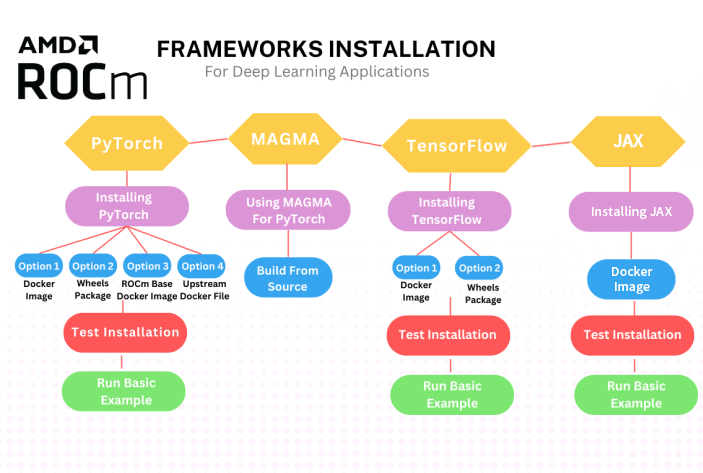
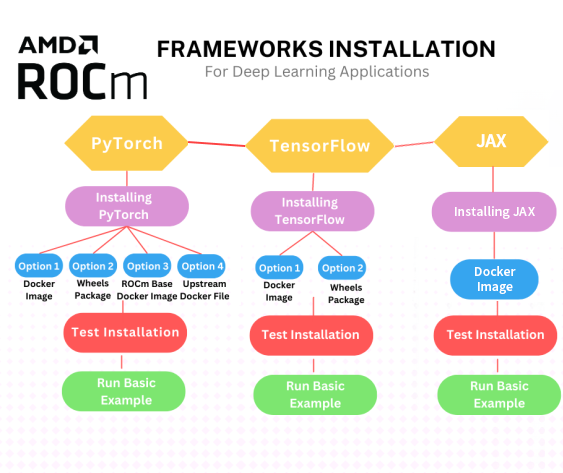
remove Magma

Changed region(s): [[0.0, 0.0592, 0.9964, 0.8879], [0.2114, 0.0592, 0.9059, 0.1776], [0.9361, 0.3256, 0.9663, 0.3552]]

diff --git a/docs/how-to/deep-learning-rocm.rst b/docs/how-to/deep-learning-rocm.rst
@@ -13,39 +13,9 @@ frameworks to ensure that framework-specific optimizations take advantage of AMD
 
 The following guides cover installation processes for ROCm-aware deep learning frameworks.
 
-.. grid::
-
-   .. grid-item::
-      :columns: 3
-
-      :doc:`PyTorch for ROCm <rocm-install-on-linux:how-to/3rd-party/pytorch-install>`
-
-   .. grid-item::
-      :columns: 3
-
-      :doc:`TensorFlow for ROCm <rocm-install-on-linux:how-to/3rd-party/tensorflow-install>`
-
-   .. grid-item::
-      :columns: 3
-
-   .. grid-item::
-      :columns: 3
-
-   .. grid-item::
-      :columns: 3
-
-      :doc:`JAX for ROCm <rocm-install-on-linux:how-to/3rd-party/jax-install>`
-
-   .. grid-item::
-      :columns: 3
-
-      :doc:`MAGMA for ROCm <rocm-install-on-linux:how-to/3rd-party/magma-install>`
-
-   .. grid-item::
-      :columns: 3
-
-   .. grid-item::
-      :columns: 3
+* :doc:`PyTorch for ROCm <rocm-install-on-linux:how-to/3rd-party/pytorch-install>`
+* :doc:`TensorFlow for ROCm <rocm-install-on-linux:how-to/3rd-party/tensorflow-install>`
+* :doc:`JAX for ROCm <rocm-install-on-linux:how-to/3rd-party/jax-install>`
 
 The following chart steps through typical installation workflows for installing deep learning frameworks for ROCm.
 

diff --git a/docs/index.md b/docs/index.md
@@ -43,7 +43,6 @@ Our documentation is organized into the following categories:
   * {doc}`PyTorch for ROCm<rocm-install-on-linux:how-to/3rd-party/pytorch-install>`
   * {doc}`TensorFlow for ROCm<rocm-install-on-linux:how-to/3rd-party/tensorflow-install>`
   * {doc}`JAX for ROCm<rocm-install-on-linux:how-to/3rd-party/jax-install>`
-  * {doc}`MAGMA for ROCm<rocm-install-on-linux:how-to/3rd-party/magma-install>`
 :::
 
 :::{grid-item-card}
